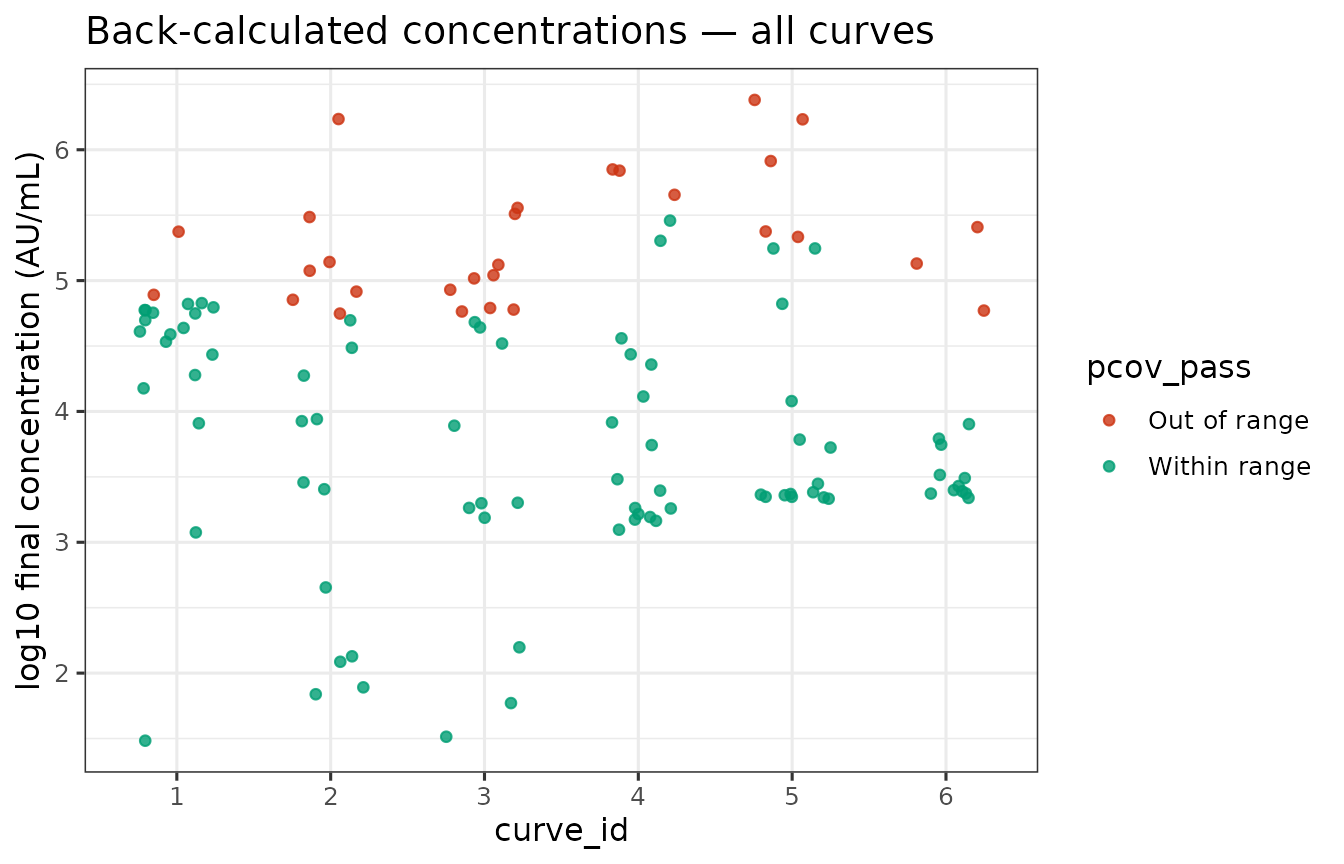
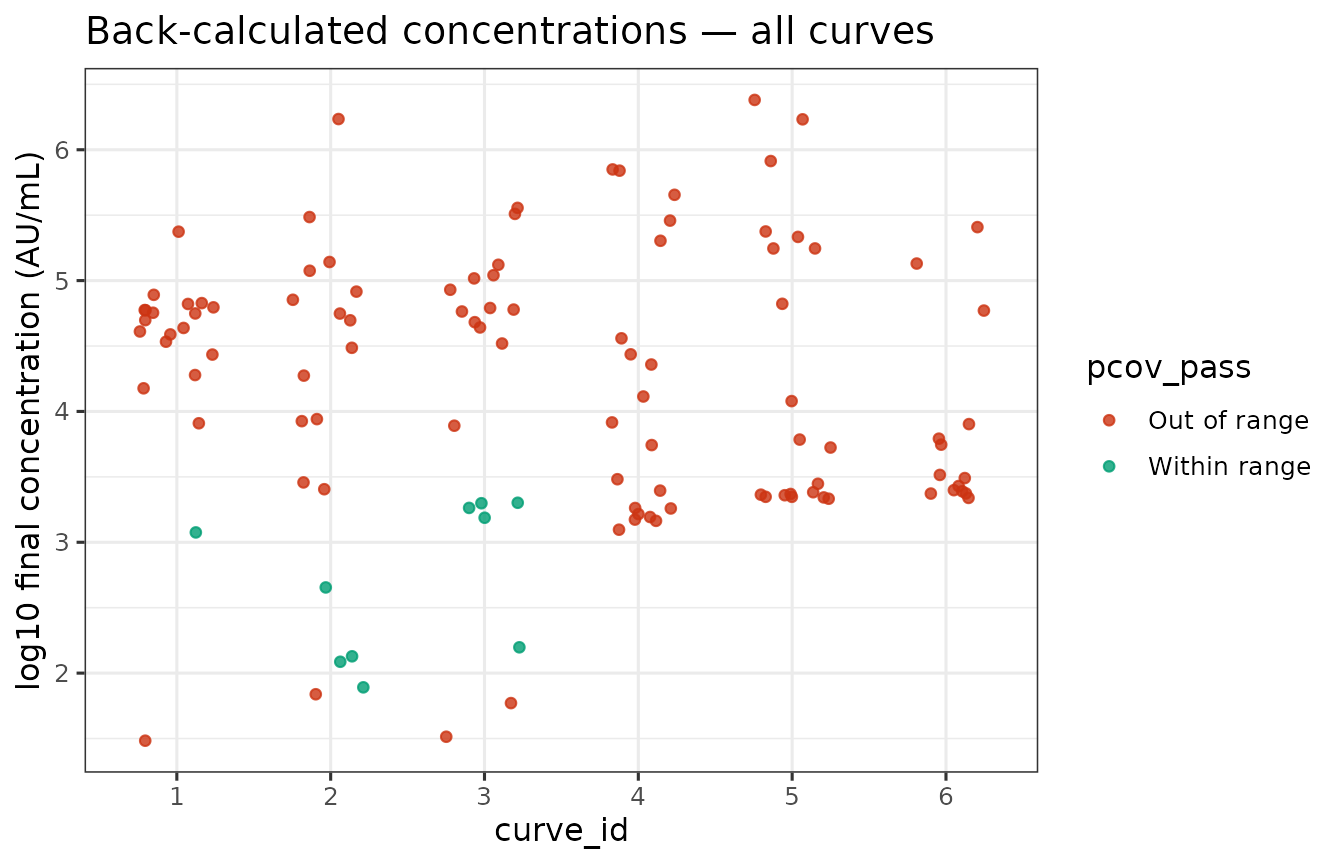
Deploying to gh-pages from @ immunoplex/curveRfreq@017f17f503d831cba032d75081952ebc9e480ee3 🚀

diff --git a/articles/frequentist-quickstart.html b/articles/frequentist-quickstart.html
@@ -26,7 +26,7 @@
 
     <a class="navbar-brand me-2" href="../index.html">curveRfreq</a>
 
-    <small class="nav-text text-muted me-auto" data-bs-toggle="tooltip" data-bs-placement="bottom" title="">0.4.0</small>
+    <small class="nav-text text-muted me-auto" data-bs-toggle="tooltip" data-bs-placement="bottom" title="">0.4.1</small>
 
 
     <button class="navbar-toggler" type="button" data-bs-toggle="collapse" data-bs-target="#navbar" aria-controls="navbar" aria-expanded="false" aria-label="Toggle navigation">
@@ -1425,12 +1425,12 @@ across all curves:</p>
 <span><span class="co">#&gt; 5        1     a005 20177.5                1.472263         59332.60615</span></span>
 <span><span class="co">#&gt; 6        1     a006    70.1               -1.817592            30.43951</span></span>
 <span><span class="co">#&gt;   se_concentration      pcov pcov_pass</span></span>
-<span><span class="co">#&gt; 1        0.3075734  70.82139      TRUE</span></span>
-<span><span class="co">#&gt; 2        0.4268163  98.27808      TRUE</span></span>
-<span><span class="co">#&gt; 3        0.5613527 129.25624      TRUE</span></span>
-<span><span class="co">#&gt; 4        0.4491785 103.42716      TRUE</span></span>
-<span><span class="co">#&gt; 5        0.5823824 134.09850      TRUE</span></span>
-<span><span class="co">#&gt; 6        0.2095433  48.24912      TRUE</span></span></code></pre></div>
+<span><span class="co">#&gt; 1        0.3075734  70.82139     FALSE</span></span>
+<span><span class="co">#&gt; 2        0.4268163  98.27808     FALSE</span></span>
+<span><span class="co">#&gt; 3        0.5613527 129.25624     FALSE</span></span>
+<span><span class="co">#&gt; 4        0.4491785 103.42716     FALSE</span></span>
+<span><span class="co">#&gt; 5        0.5823824 134.09850     FALSE</span></span>
+<span><span class="co">#&gt; 6        0.2095433  48.24912     FALSE</span></span></code></pre></div>
 <div class="section level4">
 <h4 id="output-columns-added-by-predict_samples_freq">Output columns added by <code>predict_samples_freq()</code><a class="anchor" aria-label="anchor" href="#output-columns-added-by-predict_samples_freq"></a>
 </h4>
@@ -1502,10 +1502,10 @@ finite.</td>
 <span><span class="co">#&gt; Total samples : 120</span></span>
 <span><span class="fu"><a href="https://rdrr.io/r/base/cat.html" class="external-link">cat</a></span><span class="op">(</span><span class="fu"><a href="https://rdrr.io/r/base/sprintf.html" class="external-link">sprintf</a></span><span class="op">(</span><span class="st">"pcov_pass = TRUE : %d  (%.1f %%)\n"</span>,</span>
 <span>            <span class="va">n_pass</span>, <span class="fl">100</span> <span class="op">*</span> <span class="va">n_pass</span> <span class="op">/</span> <span class="va">n_total</span><span class="op">)</span><span class="op">)</span></span>
-<span><span class="co">#&gt; pcov_pass = TRUE : 84  (70.0 %)</span></span>
+<span><span class="co">#&gt; pcov_pass = TRUE : 10  (8.3 %)</span></span>
 <span><span class="fu"><a href="https://rdrr.io/r/base/cat.html" class="external-link">cat</a></span><span class="op">(</span><span class="fu"><a href="https://rdrr.io/r/base/sprintf.html" class="external-link">sprintf</a></span><span class="op">(</span><span class="st">"Out-of-range    : %d  (%.1f %%)\n"</span>,</span>
 <span>            <span class="va">n_out_of_range</span>, <span class="fl">100</span> <span class="op">*</span> <span class="va">n_out_of_range</span> <span class="op">/</span> <span class="va">n_total</span><span class="op">)</span><span class="op">)</span></span>
-<span><span class="co">#&gt; Out-of-range    : 36  (30.0 %)</span></span></code></pre></div>
+<span><span class="co">#&gt; Out-of-range    : 110  (91.7 %)</span></span></code></pre></div>
 <div class="sourceCode" id="cb22"><pre class="downlit sourceCode r">
 <code class="sourceCode R"><span><span class="co"># Convert predicted_concentration (log10 scale) back to natural scale</span></span>
 <span><span class="va">all_samples_pred</span><span class="op">$</span><span class="va">conc_AU_mL</span> <span class="op">&lt;-</span> <span class="fl">10</span><span class="op">^</span><span class="va">all_samples_pred</span><span class="op">$</span><span class="va">predicted_concentration</span> <span class="op">*</span></span>

diff --git a/reference/predict_samples_freq.html b/reference/predict_samples_freq.html
@@ -11,7 +11,7 @@ uncertainty via the delta method to get se_concentration and pcov."><meta proper
 
     <a class="navbar-brand me-2" href="../index.html">curveRfreq</a>
 
-    <small class="nav-text text-muted me-auto" data-bs-toggle="tooltip" data-bs-placement="bottom" title="">0.4.0</small>
+    <small class="nav-text text-muted me-auto" data-bs-toggle="tooltip" data-bs-placement="bottom" title="">0.4.1</small>
 
 
     <button class="navbar-toggler" type="button" data-bs-toggle="collapse" data-bs-target="#navbar" aria-controls="navbar" aria-expanded="false" aria-label="Toggle navigation">
@@ -55,6 +55,7 @@ uncertainty via the delta method to get <code>se_concentration</code> and <code>
 <span>  is_log_response <span class="op">=</span> <span class="cn">TRUE</span>,</span>
 <span>  se_response <span class="op">=</span> <span class="fl">0</span>,</span>
 <span>  cv_x_max <span class="op">=</span> <span class="fl">150</span>,</span>
+<span>  pcov_threshold <span class="op">=</span> <span class="fl">20</span>,</span>
 <span>  is_log_independent <span class="op">=</span> <span class="cn">TRUE</span>,</span>
 <span>  verbose <span class="op">=</span> <span class="cn">FALSE</span></span>
 <span><span class="op">)</span></span></code></pre></div>
@@ -96,6 +97,12 @@ Typically <code>summary(fit)$sigma</code>. Default 0.</p></dd>
 
 <dt id="arg-cv-x-max">cv_x_max<a class="anchor" aria-label="anchor" href="#arg-cv-x-max"></a></dt>
 <dd><p>Numeric. Cap for pcov. Default 150.</p></dd>
+
+
+<dt id="arg-pcov-threshold">pcov_threshold<a class="anchor" aria-label="anchor" href="#arg-pcov-threshold"></a></dt>
+<dd><p>Numeric. Precision threshold (%) used to set
+<code>pcov_pass</code>. A grid point passes when <code>pcov &lt; pcov_threshold</code>. Default
+20. Must be <code>&lt;= cv_x_max</code>.</p></dd>
 
 
 <dt id="arg-is-log-independent">is_log_independent<a class="anchor" aria-label="anchor" href="#arg-is-log-independent"></a></dt>

diff --git a/news/index.html b/news/index.html
@@ -7,7 +7,7 @@
 
     <a class="navbar-brand me-2" href="../index.html">curveRfreq</a>
 
-    <small class="nav-text text-muted me-auto" data-bs-toggle="tooltip" data-bs-placement="bottom" title="">0.4.0</small>
+    <small class="nav-text text-muted me-auto" data-bs-toggle="tooltip" data-bs-placement="bottom" title="">0.4.1</small>
 
 
     <button class="navbar-toggler" type="button" data-bs-toggle="collapse" data-bs-target="#navbar" aria-controls="navbar" aria-expanded="false" aria-label="Toggle navigation">
@@ -33,6 +33,10 @@
       <small>Source: <a href="https://github.com/immunoplex/curveRfreq/blob/main/NEWS.md" class="external-link"><code>NEWS.md</code></a></small>
     </div>
 
+    <div class="section level2">
+<h2 class="pkg-version" data-toc-text="0.4.1" id="curverfreq-041">curveRfreq 0.4.1<a class="anchor" aria-label="anchor" href="#curverfreq-041"></a></h2>
+<ul><li>Fix: predict_samples_freq() now gates pcov_pass on pcov_threshold (not cv_x_max), matching predict_grid_freq(). Previously frequentist test samples with pcov between pcov_threshold and cv_x_max were incorrectly marked pcov_pass = TRUE.</li>
+</ul></div>
     <div class="section level2">
 <h2 class="pkg-version" data-toc-text="0.4.0" id="curverfreq-040-2026-07-29">curveRfreq 0.4.0 (2026-07-29)<a class="anchor" aria-label="anchor" href="#curverfreq-040-2026-07-29"></a></h2>
 <ul><li>Lockstep version bump — <strong>no functional changes</strong>. Released so the curveR stack shares a version and the worker image can pin <code>curveRfreq@v0.4.0</code> for reproducible builds. Rebuilt/verified against curveRcore 0.4.0.</li>

diff --git a/authors.html b/authors.html
@@ -7,7 +7,7 @@
 
     <a class="navbar-brand me-2" href="index.html">curveRfreq</a>
 
-    <small class="nav-text text-muted me-auto" data-bs-toggle="tooltip" data-bs-placement="bottom" title="">0.4.0</small>
+    <small class="nav-text text-muted me-auto" data-bs-toggle="tooltip" data-bs-placement="bottom" title="">0.4.1</small>
 
 
     <button class="navbar-toggler" type="button" data-bs-toggle="collapse" data-bs-target="#navbar" aria-controls="navbar" aria-expanded="false" aria-label="Toggle navigation">
@@ -55,13 +55,13 @@
 
       <p>Stein S, Zens M, Hoen A (2026).
 <em>curveRfreq: Frequentist Calibration Curves for the curveR Suite</em>.
-R package version 0.4.0, <a href="https://github.com/immunoplex/curveRfreq" class="external-link">https://github.com/immunoplex/curveRfreq</a>.
+R package version 0.4.1, <a href="https://github.com/immunoplex/curveRfreq" class="external-link">https://github.com/immunoplex/curveRfreq</a>.
 </p>
       <pre>@Manual{,
   title = {curveRfreq: Frequentist Calibration Curves for the curveR Suite},
   author = {Seamus O. Stein and Michael Scot Zens and Anne G. Hoen},
   year = {2026},
-  note = {R package version 0.4.0},
+  note = {R package version 0.4.1},
   url = {https://github.com/immunoplex/curveRfreq},
 }</pre>
     </div>

diff --git a/reference/bead_assay_example.html b/reference/bead_assay_example.html
@@ -17,7 +17,7 @@ across three replicate plates each (six curve_ids total)."><meta property="og:im
 
     <a class="navbar-brand me-2" href="../index.html">curveRfreq</a>
 
-    <small class="nav-text text-muted me-auto" data-bs-toggle="tooltip" data-bs-placement="bottom" title="">0.4.0</small>
+    <small class="nav-text text-muted me-auto" data-bs-toggle="tooltip" data-bs-placement="bottom" title="">0.4.1</small>
 
 
     <button class="navbar-toggler" type="button" data-bs-toggle="collapse" data-bs-target="#navbar" aria-controls="navbar" aria-expanded="false" aria-label="Toggle navigation">

diff --git a/reference/fit_calibration_freq.html b/reference/fit_calibration_freq.html
@@ -13,7 +13,7 @@ predictions with propagated uncertainty."><meta property="og:image" content="htt
 
     <a class="navbar-brand me-2" href="../index.html">curveRfreq</a>
 
-    <small class="nav-text text-muted me-auto" data-bs-toggle="tooltip" data-bs-placement="bottom" title="">0.4.0</small>
+    <small class="nav-text text-muted me-auto" data-bs-toggle="tooltip" data-bs-placement="bottom" title="">0.4.1</small>
 
 
     <button class="navbar-toggler" type="button" data-bs-toggle="collapse" data-bs-target="#navbar" aria-controls="navbar" aria-expanded="false" aria-label="Toggle navigation">

diff --git a/reference/fit_calibration_freq_multiplate.html b/reference/fit_calibration_freq_multiplate.html
@@ -11,7 +11,7 @@ collects the results."><meta property="og:image" content="https://immunoplex.git
 
     <a class="navbar-brand me-2" href="../index.html">curveRfreq</a>
 
-    <small class="nav-text text-muted me-auto" data-bs-toggle="tooltip" data-bs-placement="bottom" title="">0.4.0</small>
+    <small class="nav-text text-muted me-auto" data-bs-toggle="tooltip" data-bs-placement="bottom" title="">0.4.1</small>
 
 
     <button class="navbar-toggler" type="button" data-bs-toggle="collapse" data-bs-target="#navbar" aria-controls="navbar" aria-expanded="false" aria-label="Toggle navigation">

diff --git a/reference/fit_ensemble_nls.html b/reference/fit_ensemble_nls.html
@@ -13,7 +13,7 @@ converged = FALSE in the output."><meta property="og:image" content="https://imm
 
     <a class="navbar-brand me-2" href="../index.html">curveRfreq</a>
 
-    <small class="nav-text text-muted me-auto" data-bs-toggle="tooltip" data-bs-placement="bottom" title="">0.4.0</small>
+    <small class="nav-text text-muted me-auto" data-bs-toggle="tooltip" data-bs-placement="bottom" title="">0.4.1</small>
 
 
     <button class="navbar-toggler" type="button" data-bs-toggle="collapse" data-bs-target="#navbar" aria-controls="navbar" aria-expanded="false" aria-label="Toggle navigation">

diff --git a/reference/predict_grid_freq.html b/reference/predict_grid_freq.html
@@ -13,7 +13,7 @@ and propagates uncertainty to get se_concentration and pcov."><meta property="og
 
     <a class="navbar-brand me-2" href="../index.html">curveRfreq</a>
 
-    <small class="nav-text text-muted me-auto" data-bs-toggle="tooltip" data-bs-placement="bottom" title="">0.4.0</small>
+    <small class="nav-text text-muted me-auto" data-bs-toggle="tooltip" data-bs-placement="bottom" title="">0.4.1</small>
 
 
     <button class="navbar-toggler" type="button" data-bs-toggle="collapse" data-bs-target="#navbar" aria-controls="navbar" aria-expanded="false" aria-label="Toggle navigation">

diff --git a/reference/collect_samples.html b/reference/collect_samples.html
@@ -9,7 +9,7 @@ a curve_id column for identification."><meta property="og:image" content="https:
 
     <a class="navbar-brand me-2" href="../index.html">curveRfreq</a>
 
-    <small class="nav-text text-muted me-auto" data-bs-toggle="tooltip" data-bs-placement="bottom" title="">0.4.0</small>
+    <small class="nav-text text-muted me-auto" data-bs-toggle="tooltip" data-bs-placement="bottom" title="">0.4.1</small>
 
 
     <button class="navbar-toggler" type="button" data-bs-toggle="collapse" data-bs-target="#navbar" aria-controls="navbar" aria-expanded="false" aria-label="Toggle navigation">

diff --git a/reference/compute_model_constraints.html b/reference/compute_model_constraints.html
@@ -9,7 +9,7 @@ then builds adaptive bounds for a, b, c, d (and g for 5-param models)."><meta pr
 
     <a class="navbar-brand me-2" href="../index.html">curveRfreq</a>
 
-    <small class="nav-text text-muted me-auto" data-bs-toggle="tooltip" data-bs-placement="bottom" title="">0.4.0</small>
+    <small class="nav-text text-muted me-auto" data-bs-toggle="tooltip" data-bs-placement="bottom" title="">0.4.1</small>
 
 
     <button class="navbar-toggler" type="button" data-bs-toggle="collapse" data-bs-target="#navbar" aria-controls="navbar" aria-expanded="false" aria-label="Toggle navigation">

diff --git a/reference/extract_best_parameters.html b/reference/extract_best_parameters.html
@@ -9,7 +9,7 @@ from the selected best model."><meta property="og:image" content="https://immuno
 
     <a class="navbar-brand me-2" href="../index.html">curveRfreq</a>
 
-    <small class="nav-text text-muted me-auto" data-bs-toggle="tooltip" data-bs-placement="bottom" title="">0.4.0</small>
+    <small class="nav-text text-muted me-auto" data-bs-toggle="tooltip" data-bs-placement="bottom" title="">0.4.1</small>
 
 
     <button class="navbar-toggler" type="button" data-bs-toggle="collapse" data-bs-target="#navbar" aria-controls="navbar" aria-expanded="false" aria-label="Toggle navigation">
